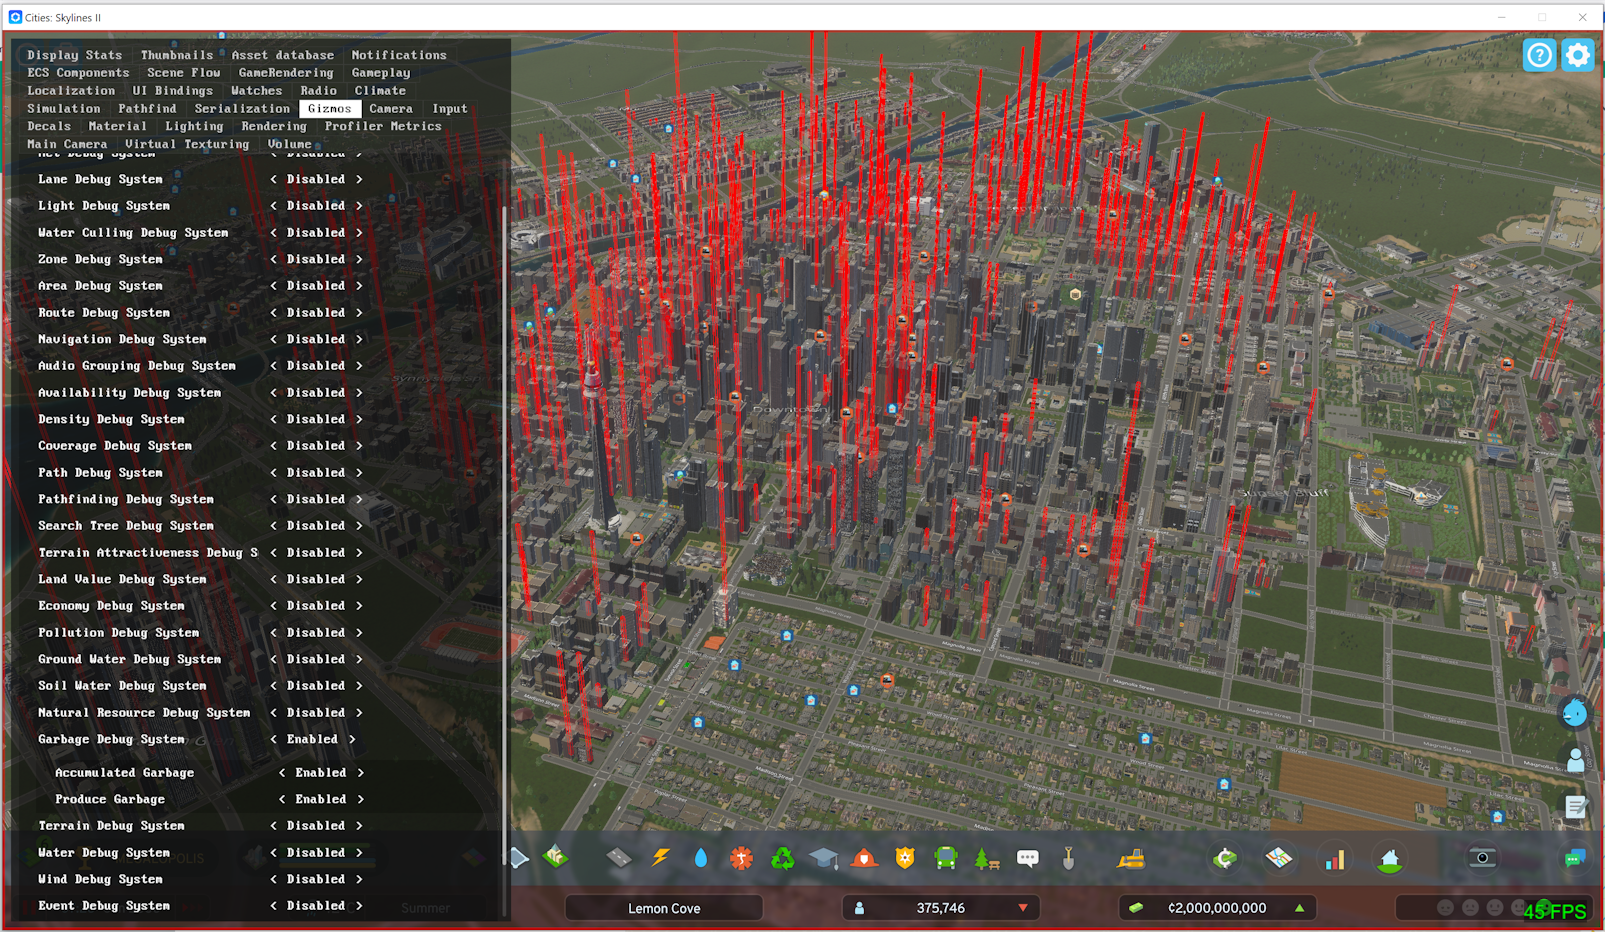
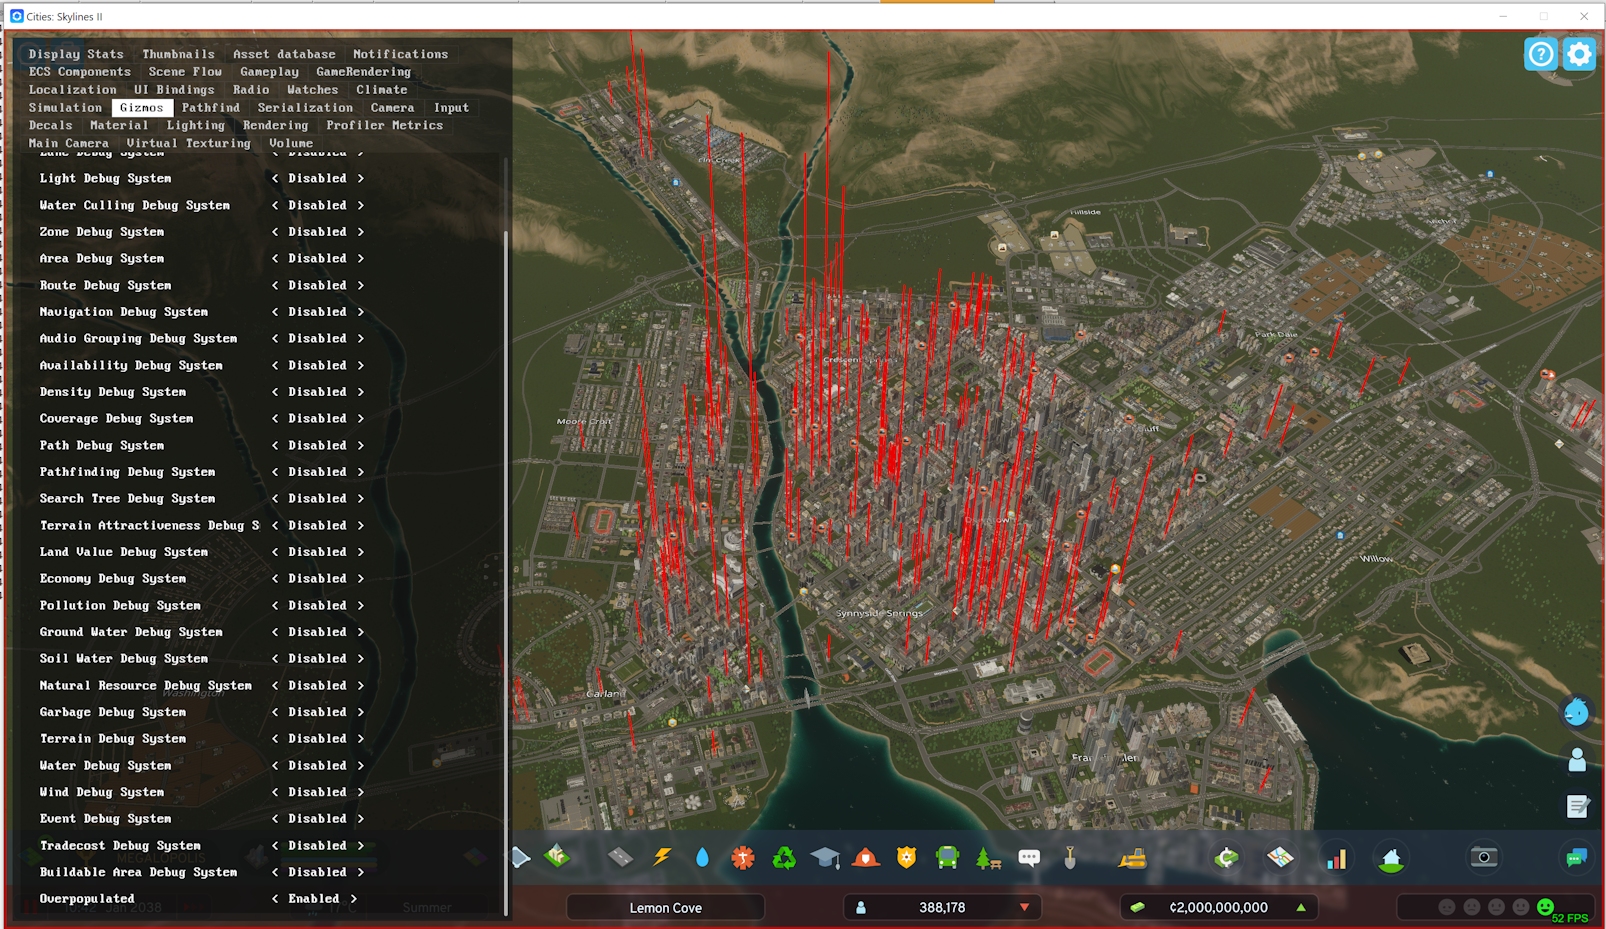
Registers a new Gizmo
Overwrites GarbageSystem no more.

diff --git a/OverpopulatedDebugSystem.cs b/OverpopulatedDebugSystem.cs
@@ -11,14 +11,12 @@ using Unity.Jobs;
 using Unity.Mathematics;
 using Game.Debug;
 using Game.Citizens;
-using HarmonyLib;
 
 namespace Overpopulated;
 
-[HarmonyPatch]
 public partial class OverpopulatedDebugSystem : BaseDebugSystem
 {
-    private struct GarbageGizmoJob : IJobChunk
+    private struct OverpopulatedGizmoJob : IJobChunk
     {
         [ReadOnly]
         public EntityTypeHandle m_EntityType;
@@ -49,7 +47,7 @@ public partial class OverpopulatedDebugSystem : BaseDebugSystem
         private void DrawOverpopulation(Game.Objects.Transform t, int value)
         {
             float3 position = t.m_Position;
-            float num = (float)value * 10f;
+            float num = (float)value * 20f;
             position.y += num / 2f;
             UnityEngine.Color color = UnityEngine.Color.red; //  UnityEngine.Color.Lerp(UnityEngine.Color.green, UnityEngine.Color.red, math.saturate(value / 20000f));
             m_GizmoBatcher.DrawWireCube(position, new float3(5f, num, 5f), color);
@@ -94,7 +92,7 @@ public partial class OverpopulatedDebugSystem : BaseDebugSystem
                 Entity entity = nativeArray[i];
                 Entity prefab = nativeArrayPrefabRef[i].m_Prefab;
                 int overpopulation = CalculateOverpopulation(entity, prefab);
-                if (overpopulation > 0) DrawOverpopulation(nativeArrayTransform[i], overpopulation);
+                if (overpopulation > 0) DrawOverpopulation(nativeArrayTransform[i], math.max(10, overpopulation));
             }
         }
 
@@ -146,22 +144,6 @@ public partial class OverpopulatedDebugSystem : BaseDebugSystem
 
     private TypeHandle __TypeHandle;
 
-    private static bool isHooked = false;
-
-    public static OverpopulatedDebugSystem m_OverpopulatedSystem;
-
-    public static Game.Debug.GarbageDebugSystem m_GarbageSystem;
-
-    /* why the fuck reverse patches are not working?!?!?
-    [HarmonyPatch(typeof(Game.Debug.BaseDebugSystem), "AddOption")]
-    [HarmonyReversePatch]
-    public static void BaseDebugSystem_AddOption(string displayName, bool defaultEnabled)
-    {
-        // its a stub so it has no initial content
-        throw new NotImplementedException("It's a stub");
-    }
-    */
-
     protected override void OnCreate()
     {
         base.OnCreate();
@@ -188,24 +170,6 @@ public partial class OverpopulatedDebugSystem : BaseDebugSystem
         Mod.log.Info("OverpopulatedDebugSystem created.");
     }
 
-    public static void LateHook()
-    {
-        m_OverpopulatedSystem = World.DefaultGameObjectInjectionWorld.GetOrCreateSystemManaged<OverpopulatedDebugSystem>();
-        m_GarbageSystem = World.DefaultGameObjectInjectionWorld.GetOrCreateSystemManaged<Game.Debug.GarbageDebugSystem>();
-        //BaseDebugSystem_AddOption("Overpopulated", true);
-        isHooked = true;
-    }
-
-    [HarmonyPatch(typeof(Game.Debug.GarbageDebugSystem), "OnUpdate")]
-    [HarmonyPrefix]
-    public static bool GarbageDebugSystem_OnUpdate()
-    {
-        if (!isHooked)
-            LateHook();
-        OverpopulatedDebugSystem.m_OverpopulatedSystem.OnUpdate();
-        return false;
-    }
-
     protected override void OnUpdate()
     {
         //Mod.log.Info($"OverpopulatedSystem.OnUpdate");
@@ -218,20 +182,17 @@ public partial class OverpopulatedDebugSystem : BaseDebugSystem
             __TypeHandle.__Game_Prefabs_BuildingPropertyData_RO_ComponentLookup.Update(ref base.CheckedStateRef);
             __TypeHandle.__Game_Buildings_Renter_RO_BufferLookup.Update(ref base.CheckedStateRef);
             __TypeHandle.__Game_Citizens_Household_RO_ComponentLookup.Update(ref base.CheckedStateRef);
-            GarbageGizmoJob garbageGizmoJob = default(GarbageGizmoJob);
-            garbageGizmoJob.m_EntityType = __TypeHandle.__Unity_Entities_Entity_TypeHandle;
-            garbageGizmoJob.m_ResidentialPropertyType = __TypeHandle.__Game_Buildings_ResidentialProperty_RO_ComponentTypeHandle;
-            garbageGizmoJob.m_PrefabType = __TypeHandle.__Game_Prefabs_PrefabRef_RO_ComponentTypeHandle;
-            garbageGizmoJob.m_TransformType = __TypeHandle.__Game_Objects_Transform_RO_ComponentTypeHandle;
-            garbageGizmoJob.m_BuildingPropertyDatas = __TypeHandle.__Game_Prefabs_BuildingPropertyData_RO_ComponentLookup;
-            garbageGizmoJob.m_Renters = __TypeHandle.__Game_Buildings_Renter_RO_BufferLookup;
-            garbageGizmoJob.m_Households = __TypeHandle.__Game_Citizens_Household_RO_ComponentLookup;
-            //garbageGizmoJob.m_AccumulatedOption = m_AccumulatedOption.enabled;
-            //garbageGizmoJob.m_ProduceOption = m_ProduceOption.enabled;
-            garbageGizmoJob.m_GizmoBatcher = m_GizmosSystem.GetGizmosBatcher(out var dependencies);
-            garbageGizmoJob.m_GarbageParameterData = GetEntityQuery(ComponentType.ReadOnly<GarbageParameterData>()).GetSingleton<GarbageParameterData>();
-            GarbageGizmoJob jobData = garbageGizmoJob;
-            base.Dependency = JobChunkExtensions.ScheduleParallel(jobData, m_BuildingGroup, JobHandle.CombineDependencies(base.Dependency, dependencies));
+            OverpopulatedGizmoJob gizmoJob = default(OverpopulatedGizmoJob);
+            gizmoJob.m_EntityType = __TypeHandle.__Unity_Entities_Entity_TypeHandle;
+            gizmoJob.m_ResidentialPropertyType = __TypeHandle.__Game_Buildings_ResidentialProperty_RO_ComponentTypeHandle;
+            gizmoJob.m_PrefabType = __TypeHandle.__Game_Prefabs_PrefabRef_RO_ComponentTypeHandle;
+            gizmoJob.m_TransformType = __TypeHandle.__Game_Objects_Transform_RO_ComponentTypeHandle;
+            gizmoJob.m_BuildingPropertyDatas = __TypeHandle.__Game_Prefabs_BuildingPropertyData_RO_ComponentLookup;
+            gizmoJob.m_Renters = __TypeHandle.__Game_Buildings_Renter_RO_BufferLookup;
+            gizmoJob.m_Households = __TypeHandle.__Game_Citizens_Household_RO_ComponentLookup;
+            gizmoJob.m_GizmoBatcher = m_GizmosSystem.GetGizmosBatcher(out var dependencies);
+            gizmoJob.m_GarbageParameterData = GetEntityQuery(ComponentType.ReadOnly<GarbageParameterData>()).GetSingleton<GarbageParameterData>();
+            base.Dependency = JobChunkExtensions.ScheduleParallel(gizmoJob, m_BuildingGroup, JobHandle.CombineDependencies(base.Dependency, dependencies));
             m_GizmosSystem.AddGizmosBatcherWriter(base.Dependency);
         }
     }

diff --git a/Mod.cs b/Mod.cs
@@ -1,14 +1,19 @@
-using System.Linq;
+using System;
+using System.Reflection;
+using System.Linq;
+using System.Collections.Generic;
 using Colossal.IO.AssetDatabase;
 using Colossal.Logging;
 using Game;
 using Game.Modding;
 using Game.SceneFlow;
-using HarmonyLib;
+using Game.Debug;
 using UnityEngine.Rendering;
+using HarmonyLib;
 
 namespace Overpopulated;
 
+[HarmonyPatch]
 public class Mod : IMod
 {
     public static readonly string harmonyID = "Infixo." + nameof(Overpopulated);
@@ -25,7 +30,7 @@ public class Mod : IMod
 
         if (GameManager.instance.modManager.TryGetExecutableAsset(this, out var asset))
         {
-            log.Info($"Current mod asset at {asset.path}");
+            log.Info($"{asset.name} v{asset.version} mod asset at {asset.path}");
             modAsset = asset;
         }
 
@@ -42,8 +47,6 @@ public class Mod : IMod
         // Systems
         updateSystem.UpdateAt<OverpopulatedBuildingsSystem>(SystemUpdatePhase.GameSimulation);
         updateSystem.UpdateAt<OverpopulatedDebugSystem>(SystemUpdatePhase.DebugGizmos);
-
-        //RegisterGizmoPanel();
     }
 
     public void OnDispose()
@@ -60,30 +63,17 @@ public class Mod : IMod
     // container is added to the list
     // List<DebugUI.Widget> list = new List<DebugUI.Widget>();
     // Then list is used in AddPanel => 
-    public void RegisterGizmoPanel()
+    [HarmonyPatch(typeof(Game.Debug.DebugSystem), "RefreshGizmosDebug", new Type[] { }, new ArgumentType[] { })]
+    [HarmonyPostfix]
+    public static void DebugSystem_RegisterGizmoPanel(
+        DebugSystem __instance,
+        Dictionary<string, List<DebugUI.Widget>> ___m_Panels
+        )
     {
+        //Mod.log.Info($"DebugSystem_RegisterGizmoPanel");
+
+        // Get panel variable - apparently this is not needed to register a new gizmo, leaving for future reference
         /*
-        Game.Debug.DebugSystem.AddSystemGizmoField<LandValueDebugSystem>(container, base.World, "Land Value Debug System"); // this is private
-
-        Game.Debug.DebugSystem
-        private Dictionary<string, List<DebugUI.Widget>> m_Panels = new Dictionary<string, List<DebugUI.Widget>>();
-
-    UnityEngine.Rendering.DebugManager
-
-         DebugUI.Panel panel = DebugManager.instance.GetPanel("Gizmos", createIfNull: true, groupIndex, overrideIfExists);
-
-
-    m_Panels[name] = widgets;
-        i need to retrieve m_Panels from Game.Debug.DebugSystem
-        */
-        //Dictionary<string, List<DebugUI.Widget>> __m_Panels = AccessTools.FieldRef<Dictionary<string, List<DebugUI.Widget>>>(
-
-        // Step 1 - get m_Panels from DebugSystem
-
-        // get container ?
-        // Step 2 - create widget?
-
-        // get panel
         DebugUI.Panel panel = DebugManager.instance.GetPanel("Gizmos"); // Get existing panel, createIfNull = false
         if (panel == null)
         {
@@ -92,12 +82,49 @@ public class Mod : IMod
         else
         {
             Mod.log.Info($"Gizmos panel: {panel.displayName} flags {panel.flags} children {panel.children.Count}");
-            //foreach (ObservableList<Widget> list in panel.children)
-            //{
-            //}
+            foreach (DebugUI.Container item in panel.children)
+            {
+                Mod.log.Info($"{item.children}");
+            }
         }
+        */
 
-        // Step 
+        /* Debug
+        Mod.log.Info($"m_Panels: {___m_Panels.Count}");
+        foreach (var item in ___m_Panels)
+        {
+            Mod.log.Info($"{item.Key}: {item.Value} {item.Value.Count}");
+        }
+        */
+
+        // Retrieve container that holds all gizmos
+        List<DebugUI.Widget> widgets = ___m_Panels["Gizmos"];
+        //Mod.log.Info($"Gizmos: {widgets.Count}");
+        DebugUI.Container container = widgets.First() as DebugUI.Container;
+
+        /* Debug
+        foreach (DebugUI.Container item in widgets)
+        {
+            Mod.log.Info($"{item}");
+            //foreach (var item2 in item.children) Mod.log.Info($"{item2}");
+            container = item;
+            break;
+        }
+        */
+
+        // Register a new system as Gizmo; need to perform this call of a private method:
+        // __instance.AddSystemGizmoField<OverpopulatedDebugSystem>(container, __instance.World, "Overpopulated");
+
+        // Get the MethodInfo for the method you want to invoke
+        MethodInfo methodInfo = typeof(Game.Debug.DebugSystem).GetMethod("AddSystemGizmoField", BindingFlags.Instance | BindingFlags.NonPublic);
+        //Mod.log.Info($"{methodInfo.Name}: {methodInfo}");
+
+        // The method is generic, so make it specific
+        MethodInfo genericMethodInfo = methodInfo.MakeGenericMethod(typeof(OverpopulatedDebugSystem));
+        //Mod.log.Info($"{genericMethodInfo.Name}: {genericMethodInfo}");
+
+        // Invoke the method with arguments
+        object result = genericMethodInfo.Invoke(__instance, new object[] { container, __instance.World, "Overpopulated" });
+        //Mod.log.Info($"Invoked: {result}");
     }
-
 }
